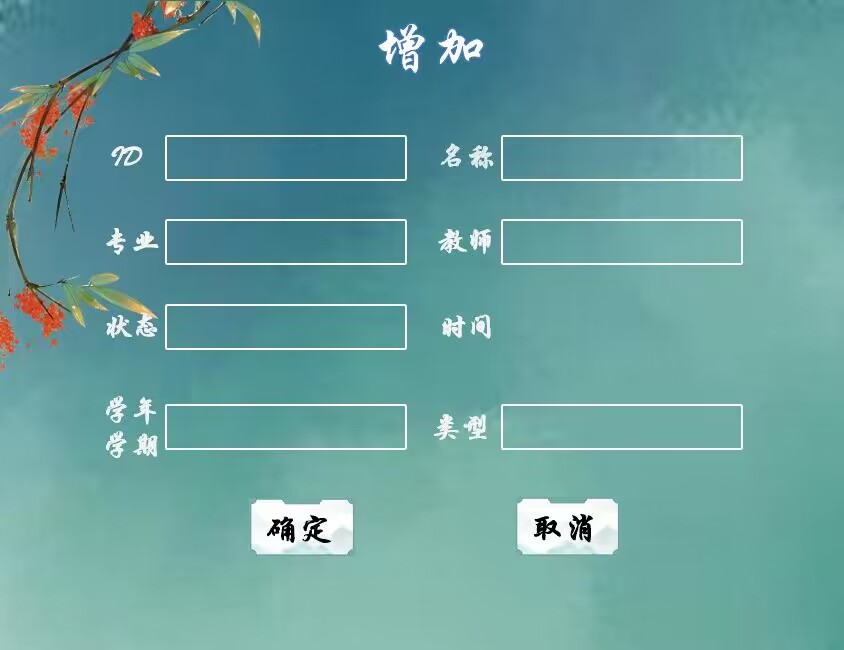
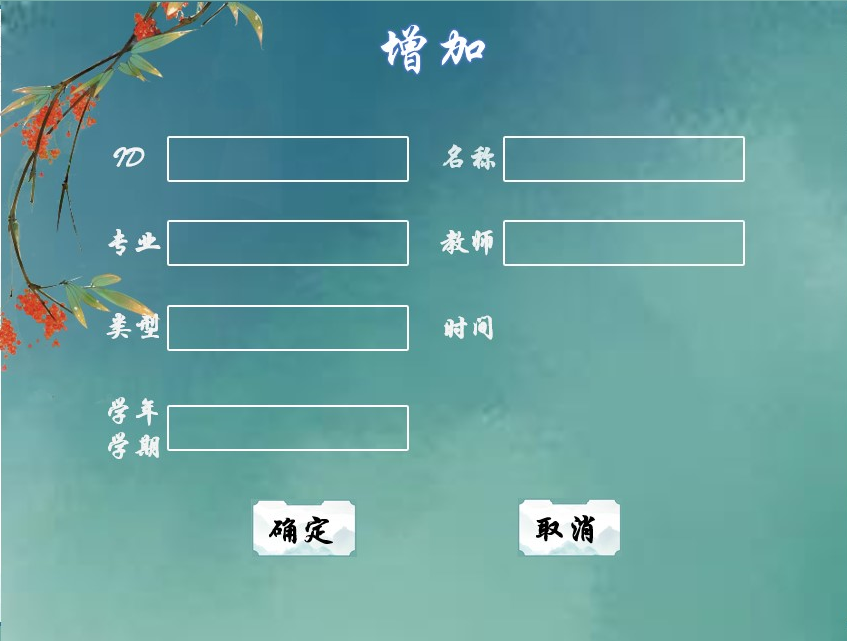
头像与购物车

diff --git a/VCampusClient/src/main/java/seu/list/client/view/CourseInfor.java b/VCampusClient/src/main/java/seu/list/client/view/CourseInfor.java
@@ -24,6 +24,8 @@ public class CourseInfor extends JDialog implements ActionListener {
     private JTextField CourseType;
     private Socket socket;
     private String userID;
+    JComboBox CourseDate;
+    JComboBox CoursePeriod;
 
     public CourseInfor(String ID, Socket socket, ClientCourseFrame tem) {
         userID = ID;
@@ -35,22 +37,34 @@ public class CourseInfor extends JDialog implements ActionListener {
         JLabel backgroundImageLabel = new JLabel(new ImageIcon(getClass().getClassLoader().getResource("imgs/CourseInfor.png")));
         Toolkit k = Toolkit.getDefaultToolkit();
         Dimension d = k.getScreenSize();
-        setBounds(d.width / 2 - 844 / 2, d.height / 2 - 650 / 2, 844, 650);
-        backgroundImageLabel.setBounds(0, 0, 844, 650);
+        setBounds(d.width / 2 - 847 / 2, d.height / 2 - 641 / 2, 847, 641);
+        backgroundImageLabel.setBounds(0, 0, 847, 641);
         setResizable(false);
         setLayout(null);
+
+        //2.绘制退出按钮
+        //得到鼠标的坐标（用于推算对话框应该摆放的坐标）
+//     backgroundImageLabel.addMouseListener(new MouseAdapter() {
+//            @Override
+//            public void mouseClicked(MouseEvent e) {
+//				int x = e.getX();
+//				int y = e.getY();
+//				System.out.println("鼠标点击位置：X=" + x + ", Y=" + y);
+//			}
+//        });
+
 
         setTitle("添加课程");
         Font f = new Font("华文楷体", Font.BOLD, 36);
 
-        JComboBox modifyt1 = new JComboBox<>();
-        modifyt1.setModel(new DefaultComboBoxModel(new String[]{"周一", "周二", "周三", "周四", "周五"}));
-        modifyt1.setFont(new Font("华文行楷", Font.PLAIN, 24));
-        modifyt1.setBounds(502, 305, 110, 43);
-        add(modifyt1);
-        modifyt1.setOpaque(false);
-        modifyt1.setBorder(new EmptyBorder(0, 0, 0, 0));
-        modifyt1.setRenderer(new DefaultListCellRenderer() {
+        CourseDate = new JComboBox();
+        CourseDate.setModel(new DefaultComboBoxModel(new String[]{"周一", "周二", "周三", "周四", "周五"}));
+        CourseDate.setFont(new Font("华文行楷", Font.PLAIN, 24));
+        CourseDate.setBounds(500, 305, 110, 43);
+        add(CourseDate);
+        CourseDate.setOpaque(false);
+        CourseDate.setBorder(new EmptyBorder(0, 0, 0, 0));
+        CourseDate.setRenderer(new DefaultListCellRenderer() {
             private static final long serialVersionUID = 1L;
 
             public Component getListCellRendererComponent(JList<?> list, Object value, int index, boolean isSelected,
@@ -62,14 +76,14 @@ public class CourseInfor extends JDialog implements ActionListener {
             }
         });
 
-        JComboBox modifyt2 = new JComboBox<>();
-        modifyt2.setModel(new DefaultComboBoxModel(new String[]{"1-2节", "3-4节", "5-6节", "7-8节"}));
-        modifyt2.setFont(new Font("华文行楷", Font.PLAIN, 24));
-        modifyt2.setBounds(633, 305, 110, 43);
-        add(modifyt2);
-        modifyt2.setOpaque(false);
-        modifyt2.setBorder(new EmptyBorder(0, 0, 0, 0));
-        modifyt2.setRenderer(new DefaultListCellRenderer() {
+        CoursePeriod = new JComboBox<>();
+        CoursePeriod.setModel(new DefaultComboBoxModel(new String[]{"1-2节", "3-4节", "5-6节", "7-8节"}));
+        CoursePeriod.setFont(new Font("华文行楷", Font.PLAIN, 24));
+        CoursePeriod.setBounds(633, 305, 110, 43);
+        add(CoursePeriod);
+        CoursePeriod.setOpaque(false);
+        CoursePeriod.setBorder(new EmptyBorder(0, 0, 0, 0));
+        CoursePeriod.setRenderer(new DefaultListCellRenderer() {
             private static final long serialVersionUID = 1L;
 
             public Component getListCellRendererComponent(JList<?> list, Object value, int index, boolean isSelected,
@@ -83,14 +97,14 @@ public class CourseInfor extends JDialog implements ActionListener {
 
         CourseID = new JTextField();
         CourseID.setFont(f);
-        CourseID.setBounds(166, 136, 241, 43);
+        CourseID.setBounds(168, 135, 241, 43);
         add(CourseID);
         CourseID.setOpaque(false);
         CourseID.setBorder(new EmptyBorder(0, 0, 0, 0));
 
         CourseName = new JTextField();
         CourseName.setFont(f);
-        CourseName.setBounds(502, 136, 241, 43);
+        CourseName.setBounds(504, 136, 241, 43);
         add(CourseName);
         CourseName.setOpaque(false);
         CourseName.setBorder(new EmptyBorder(0, 0, 0, 0));
@@ -98,7 +112,7 @@ public class CourseInfor extends JDialog implements ActionListener {
 
         CourseMajor = new JTextField();
         CourseMajor.setFont(f);
-        CourseMajor.setBounds(166, 219, 241, 43);
+        CourseMajor.setBounds(168, 221, 241, 43);
         add(CourseMajor);
         CourseMajor.setOpaque(false);
         CourseMajor.setBorder(new EmptyBorder(0, 0, 0, 0));
@@ -106,40 +120,32 @@ public class CourseInfor extends JDialog implements ActionListener {
 
         teacherID = new JTextField();
         teacherID.setFont(f);
-        teacherID.setBounds(502, 219, 241, 43);
+        teacherID.setBounds(504, 219, 241, 43);
         add(teacherID);
         teacherID.setOpaque(false);
         teacherID.setBorder(new EmptyBorder(0, 0, 0, 0));
 
 
-        Semester = new JTextField();
-        Semester.setFont(f);
-        Semester.setBounds(166, 405, 241, 43);
-        add(Semester);
-        Semester.setOpaque(false);
-        Semester.setBorder(new EmptyBorder(0, 0, 0, 0));
-
-
-        CourseState = new JTextField();
-        CourseState.setFont(f);
-        CourseState.setBounds(166, 305, 241, 43);
-        add(CourseState);
-        CourseState.setOpaque(false);
-        CourseState.setBorder(new EmptyBorder(0, 0, 0, 0));
-
-
         CourseType = new JTextField();
         CourseType.setFont(f);
-        CourseType.setBounds(502, 405, 241, 43);
+        CourseType.setBounds(168, 306, 241, 43);
         add(CourseType);
         CourseType.setOpaque(false);
         CourseType.setBorder(new EmptyBorder(0, 0, 0, 0));
+
+
+        Semester = new JTextField();
+        Semester.setFont(f);
+        Semester.setBounds(168, 404, 241, 43);
+        add(Semester);
+        Semester.setOpaque(false);
+        Semester.setBorder(new EmptyBorder(0, 0, 0, 0));
 
         add(backgroundImageLabel);
 
         JButton confirmButtom = new JButton("确定");
         confirmButtom.setFont(new Font("微软雅黑", Font.BOLD, 20));
-        confirmButtom.setBounds(251, 500, 100, 53);
+        confirmButtom.setBounds(253, 500, 100, 53);
         confirmButtom.addActionListener(this);
         confirmButtom.setActionCommand("confirm");
         add(confirmButtom);
@@ -147,7 +153,7 @@ public class CourseInfor extends JDialog implements ActionListener {
 
 
         JButton exit = new JButton("退出");
-        exit.setBounds(517, 500, 100, 53);
+        exit.setBounds(520, 500, 100, 53);
         add(exit);
         exit.setOpaque(false);
         exit.addActionListener(event ->
@@ -155,7 +161,11 @@ public class CourseInfor extends JDialog implements ActionListener {
             try {
                 this.dispose();
                 ClientCourseFrame ccf = new ClientCourseFrame(userID, this.socket);
-            } catch (ClassNotFoundException | SQLException | IOException e) {
+            } catch (ClassNotFoundException e) {
+                throw new RuntimeException(e);
+            } catch (SQLException e) {
+                throw new RuntimeException(e);
+            } catch (IOException e) {
                 throw new RuntimeException(e);
             }
         });
@@ -165,7 +175,7 @@ public class CourseInfor extends JDialog implements ActionListener {
     }
 
     public void actionPerformed(ActionEvent e) {
-        if (e.getActionCommand().equals("confirm")) {
+        if (e.getActionCommand() == "confirm") {
             Client client = new Client(this.socket);
             Course course = new Course();
             course.setCourseID(CourseID.getText());
@@ -174,6 +184,8 @@ public class CourseInfor extends JDialog implements ActionListener {
             course.setTeacherID(teacherID.getText());
             course.setSemester(Semester.getText());
             course.setCourseType(CourseType.getText());
+            course.setCourseDate((String) CourseDate.getSelectedItem());
+            course.setCoursePeriod((String) CoursePeriod.getSelectedItem());
             Message clientReq = new Message();
             clientReq.setModuleType(ModuleType.Course);
             clientReq.setMessageType("REQ_ADD_LESSON");
@@ -182,7 +194,11 @@ public class CourseInfor extends JDialog implements ActionListener {
             if (rec.isSeccess()) {
                 try {
                     ClientCourseFrame ccf = new ClientCourseFrame(userID, this.socket);
-                } catch (ClassNotFoundException | SQLException | IOException ex) {
+                } catch (ClassNotFoundException ex) {
+                    throw new RuntimeException(ex);
+                } catch (SQLException ex) {
+                    throw new RuntimeException(ex);
+                } catch (IOException ex) {
                     throw new RuntimeException(ex);
                 }
                 this.setVisible(false);

diff --git a/VCampusClient/src/main/java/seu/list/client/view/ClassStudentClient.java b/VCampusClient/src/main/java/seu/list/client/view/ClassStudentClient.java
@@ -12,12 +12,17 @@ import javax.swing.*;
 import javax.swing.border.EmptyBorder;
 import java.awt.Dialog.ModalExclusionType;
 import java.awt.*;
-import java.awt.event.*;
+import java.awt.event.ActionEvent;
+import java.awt.event.ActionListener;
+import java.awt.event.ComponentAdapter;
+import java.awt.event.ComponentEvent;
 import java.awt.image.BufferedImage;
 import java.io.File;
 import java.io.IOException;
+import java.net.URISyntaxException;
 import java.text.DecimalFormat;
 import java.util.ArrayList;
+import java.util.Arrays;
 import java.util.List;
 import java.util.Vector;
 
@@ -42,11 +47,11 @@ public class ClassStudentClient extends JFrame {
     private MainMenu Mainmenu = null;
 
     @SuppressWarnings("unchecked")
-    public ClassStudentClient(String id, String pwd, MainMenu mainmenu) throws IOException {
+    public ClassStudentClient(String id, String pwd, MainMenu mainmenu) throws IOException, URISyntaxException {
         this.Mainmenu = mainmenu;
 
         //1.设置背景图片
-        JLabel backgroundImageLabel = new JLabel(new ImageIcon("VCampusClient/src/main/resources/ClassStudentClientnew.png"));
+        JLabel backgroundImageLabel = new JLabel(new ImageIcon(getClass().getClassLoader().getResource("imgs/ClassStudentClientnew.png")));
         Toolkit k = Toolkit.getDefaultToolkit();
         Dimension d = k.getScreenSize();
         setBounds(d.width / 2 - 441, d.height / 2 - 635 / 2, 882, 670);
@@ -245,7 +250,7 @@ public class ClassStudentClient extends JFrame {
         int newWidth =  backadd.getWidth();
         int newHeight =  backadd.getHeight();
         // 监听窗口大小变化事件，调整图像大小
-        BufferedImage originalImage = ImageIO.read(new File("VCampusClient/src/main/resources/1.png"));
+        BufferedImage originalImage = ImageIO.read(new File(getClass().getClassLoader().getResource("imgs/1.png").toURI()));
         Image scaledImage = originalImage.getScaledInstance(newWidth, newHeight, Image.SCALE_SMOOTH);
         final ImageIcon[][] imageIcon = {{new ImageIcon(scaledImage)}};
         backadd.setIcon(imageIcon[0][0]);
@@ -303,7 +308,7 @@ public class ClassStudentClient extends JFrame {
 
             }
         });
-        System.out.println(filePath);
+        System.out.println(Arrays.toString(filePath));
 
         //
 
@@ -344,7 +349,7 @@ public class ClassStudentClient extends JFrame {
                 JComboBox gender1 = new JComboBox();
                 gender1.addItem("男");
                 gender1.addItem("女");
-                if (thisStu.getStudentgender() == false) {
+                if (!thisStu.getStudentgender()) {
                     gender1.setSelectedIndex(1);
                 }
 

diff --git a/VCampusClient/src/main/java/seu/list/client/view/Shop_StudentFrame.java b/VCampusClient/src/main/java/seu/list/client/view/Shop_StudentFrame.java
@@ -204,8 +204,8 @@ public class Shop_StudentFrame {
         frame.add(btnNewButton_2);
         btnNewButton_2.addActionListener(event->
         {
-            JFrame Car=new JFrame("购物车");
-            JLabel back = new JLabel(new ImageIcon("VCampusClient/src/main/resources/ShaopCar.jpg"));
+            JFrame Car = new JFrame("购物车");
+            JLabel back = new JLabel(new ImageIcon(getClass().getClassLoader().getResource("imgs/ShaopCar.jpg")));
             Car.setBounds(d.width / 2 - 441, d.height / 2 - 649/2, 882,649+25);
             back.setBounds(0, 0, 882,649);
             Car.setDefaultCloseOperation(JFrame.DO_NOTHING_ON_CLOSE);
@@ -245,10 +245,10 @@ public class Shop_StudentFrame {
             add.setOpaque(false);
             add.addActionListener(event2->
             {
-                JFrame GoodsAdd=new JFrame("商品购入修改");
-                JLabel backadd = new JLabel(new ImageIcon("VCampusClient/src/main/resources/GoodsAdd.jpg"));
-                GoodsAdd.setBounds(d.width / 2 - 845/2, d.height / 2 - 588/2, 845,588+25);
-                backadd.setBounds(0, 0, 845,588);
+                JFrame GoodsAdd = new JFrame("商品购入");
+                JLabel backadd = new JLabel(new ImageIcon(getClass().getClassLoader().getResource("imgs/GoodsAdd.jpg")));
+                GoodsAdd.setBounds(d.width / 2 - 845 / 2, d.height / 2 - 588 / 2, 845, 588 + 25);
+                backadd.setBounds(0, 0, 845, 588);
                 GoodsAdd.setDefaultCloseOperation(JFrame.DO_NOTHING_ON_CLOSE);
                 GoodsAdd.setResizable(false);
                 GoodsAdd.setLayout(null);
@@ -396,8 +396,8 @@ public class Shop_StudentFrame {
             motify.setOpaque(false);
             motify.addActionListener(dd->
             {
-                JFrame GoodsAdd=new JFrame("商品修改");
-                JLabel backadd = new JLabel(new ImageIcon("VCampusClient/src/main/resources/GoodsMotify.jpg"));
+                JFrame GoodsAdd = new JFrame("商品修改");
+                JLabel backadd = new JLabel(new ImageIcon(getClass().getClassLoader().getResource("imgs/GoodsMotify.jpg")));
                 GoodsAdd.setBounds(d.width / 2 - 845/2, d.height / 2 - 588/2, 845,588+25);
                 backadd.setBounds(0, 0, 845,588);
                 GoodsAdd.setDefaultCloseOperation(JFrame.DO_NOTHING_ON_CLOSE);

diff --git a/VCampusClient/src/main/java/seu/list/client/view/MainMenu.java b/VCampusClient/src/main/java/seu/list/client/view/MainMenu.java
@@ -10,6 +10,7 @@ import java.awt.event.ActionEvent;
 import java.awt.event.ActionListener;
 import java.io.IOException;
 import java.net.Socket;
+import java.net.URISyntaxException;
 import java.sql.SQLException;
 import java.text.DecimalFormat;
 import java.util.ArrayList;
@@ -281,7 +282,7 @@ public class MainMenu extends JFrame implements ActionListener {
             throw new RuntimeException(ex);
         } catch (SQLException ex) {
             throw new RuntimeException(ex);
-        } catch (IOException ex) {
+        } catch (IOException | URISyntaxException ex) {
             throw new RuntimeException(ex);
         }
     }

diff --git a/VCampusServer/src/main/java/seu/list/common/User.java b/VCampusServer/src/main/java/seu/list/common/User.java
@@ -152,7 +152,7 @@ public class User implements java.io.Serializable {
      * @return 在线状态
      */
     public boolean getState() {
-        return online == "1";
+        return online.equals("1");
     }
 
     /**
